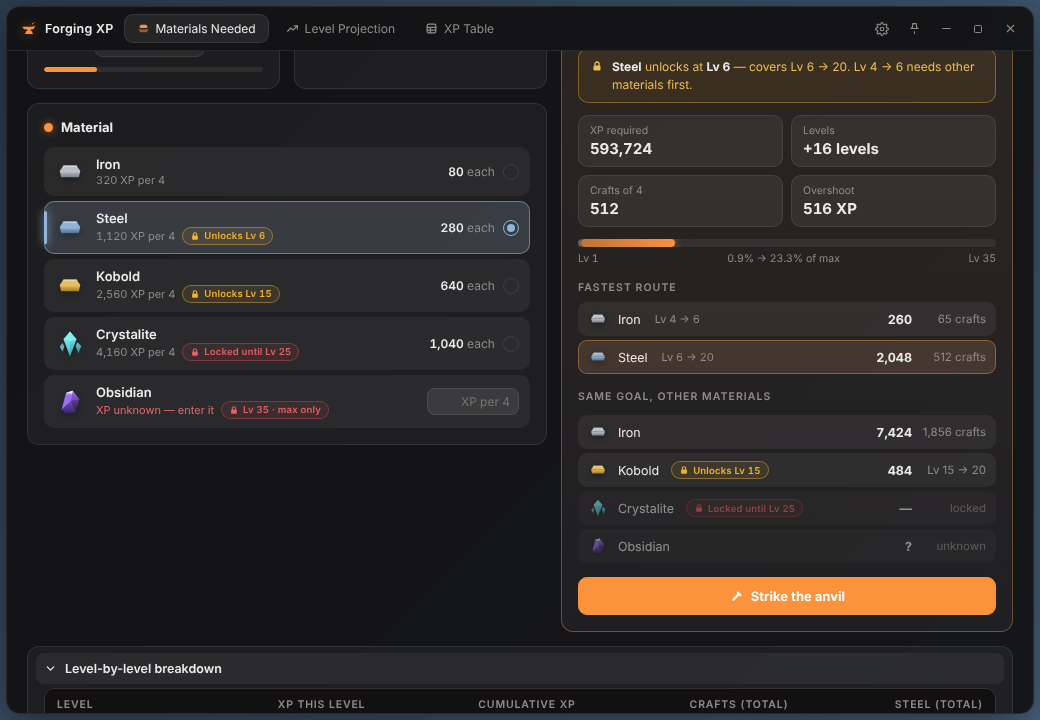
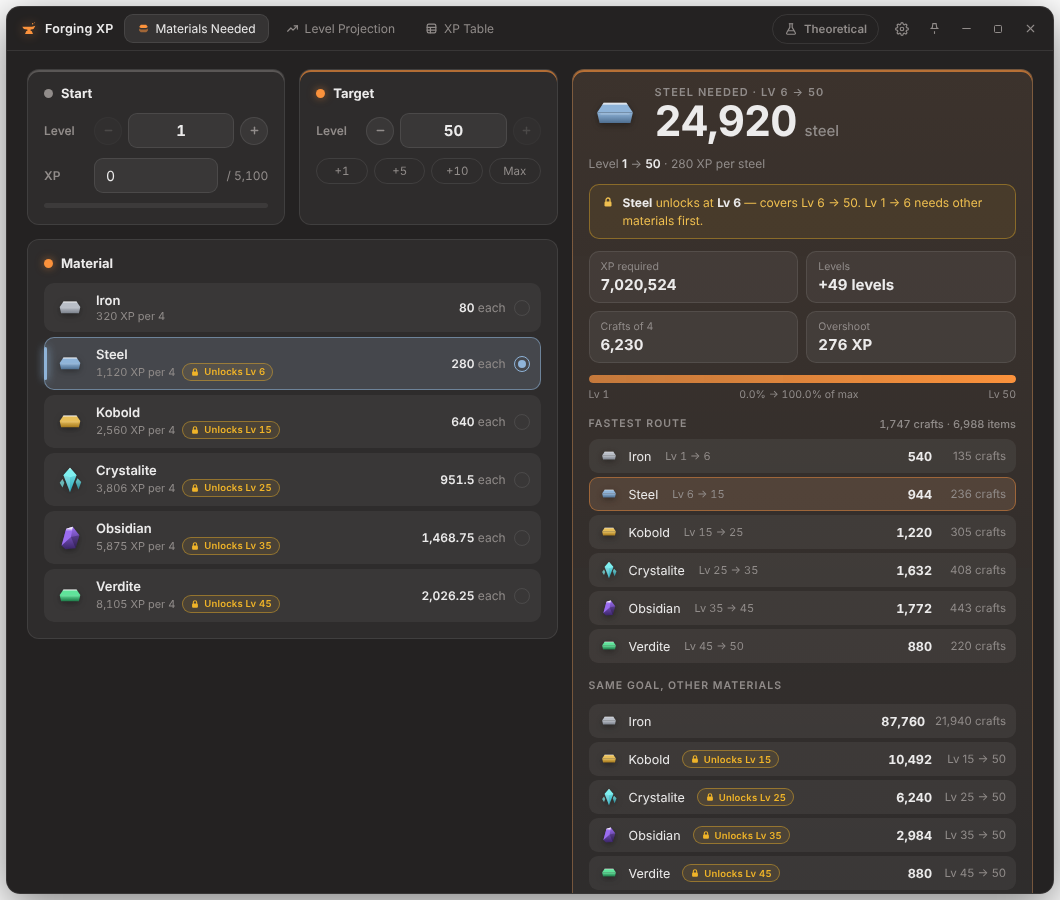
v1.3.0: max level 50, Verdite (Lv 45), Obsidian 5875, Crystalite 3806
Claude-Session: https://claude.ai/code/session_014Nw5Q8vzq2GeLL2u44okpi

diff --git a/desktop/ui/app.js b/desktop/ui/app.js
@@ -9,6 +9,7 @@ const send = (cmd, extra = {}) => { if (HOST) try { window.ipc.postMessage(JSON.
 const $ = s => document.querySelector(s);
 const $$ = s => [...document.querySelectorAll(s)];
 const fmt = n => Math.round(n).toLocaleString("en-US");
+const fmtEach = v => v.toLocaleString("en-US", { maximumFractionDigits: 2 });   // per-item XP (may be fractional)
 
 // ============================================================
 // XP curve: XP(L) = 136L² + 1088L + 3876  (XP to go from level L to L+1)
@@ -16,8 +17,8 @@ const fmt = n => Math.round(n).toLocaleString("en-US");
 // recorded and this formula was fitted to them (it reproduces every measured value exactly).
 // Levels above 25 — and theoretical mode past 35 — are extrapolated from the same formula.
 // ============================================================
-const GAME_CAP = 35;          // real in-game max level
-const THEO_CAP = 500;         // theoretical mode: formula continues past 35
+const GAME_CAP = 50;          // real in-game max level
+const THEO_CAP = 500;         // theoretical mode: formula continues past the real cap
 let MAX_LEVEL = GAME_CAP;
 let THEO = false;             // never persisted: every launch starts with the real cap
 const rawXp = L => 136 * L * L + 1088 * L + 3876;
@@ -41,8 +42,9 @@ const MATS = [
   { id: "iron",       name: "Iron",       lv: 1,  def: 320,  c: "#b9bec7", c2: "#7d838d", shape: "ingot" },
   { id: "steel",      name: "Steel",      lv: 6,  def: 1120, c: "#8fb4d9", c2: "#4f6f91", shape: "ingot" },
   { id: "kobold",     name: "Kobold",     lv: 15, def: 2560, c: "#e8bf5a", c2: "#a67a1e", shape: "ingot" },
-  { id: "crystalite", name: "Crystalite", lv: 25, def: 4160, c: "#7ff0f0", c2: "#2aa5b8", shape: "crystal" },
-  { id: "obsidian",   name: "Obsidian",   lv: 35, def: 0,    c: "#9b6df0", c2: "#3b2569", shape: "shard" },
+  { id: "crystalite", name: "Crystalite", lv: 25, def: 3806, c: "#7ff0f0", c2: "#2aa5b8", shape: "crystal" },
+  { id: "obsidian",   name: "Obsidian",   lv: 35, def: 5875, c: "#9b6df0", c2: "#3b2569", shape: "shard" },
+  { id: "verdite",    name: "Verdite",    lv: 45, def: 8105, c: "#5fe39a", c2: "#1e7a48", shape: "ingot" },
 ];
 const MAT = Object.fromEntries(MATS.map(m => [m.id, m]));
 const per4 = id => +S.per4[id] || 0;
@@ -153,6 +155,7 @@ function loadState() {
   if (typeof raw === "string") try { raw = JSON.parse(raw); } catch { raw = null; }
   S = deepMerge(structuredClone(DEFAULTS), raw || {});
   // newly-discovered default values fill in for still-unknown materials
+  if (+S.per4.crystalite === 4160) S.per4.crystalite = 3806;   // v1.3: Crystalite rebalanced (old default 4160)
   for (const m of MATS) if (!(+S.per4[m.id] > 0) && m.def > 0) S.per4[m.id] = m.def;
 }
 let saveT = null;
@@ -359,7 +362,7 @@ function renderNeedMats() {
       <div class="m-txt"><span class="m-name">${m.name}</span>
         <span class="m-sub">${known ? `${fmt(p)} XP per 4` : "XP unknown — enter it"}${lockBadge(m.id, S.need.lv, S.need.target)}</span></div>
       <div class="m-right">
-        ${known ? `<span class="m-each"><b>${fmt(p / 4)}</b> each</span><span class="radio"></span>`
+        ${known ? `<span class="m-each"><b>${fmtEach(p / 4)}</b> each</span><span class="radio"></span>`
                 : `<input class="set-inline" data-set="${m.id}" placeholder="XP per 4" inputmode="numeric">`}
       </div>
     </div>`;
@@ -417,7 +420,7 @@ function renderNeed() {
   $("#need-unit").textContent = items === 1 ? m.name.toLowerCase() : m.name.toLowerCase();
   animNum($("#need-count"), items ?? 0);
   const over = Math.max(0, route.cur - endT);
-  $("#need-sub").innerHTML = `Level <b>${N.lv}</b>${N.xp ? ` (+${fmt(N.xp)} XP)` : ""} → <b>${N.target}</b> · ${fmt(per4(N.mat) / 4)} XP per ${m.name.toLowerCase()}`;
+  $("#need-sub").innerHTML = `Level <b>${N.lv}</b>${N.xp ? ` (+${fmt(N.xp)} XP)` : ""} → <b>${N.target}</b> · ${fmtEach(per4(N.mat) / 4)} XP per ${m.name.toLowerCase()}`;
   animNum($("#need-st-xp"), xp);
   $("#need-st-lv").textContent = `+${N.target - N.lv} level${N.target - N.lv === 1 ? "" : "s"}`;
   animNum($("#need-st-crafts"), items / 4);
@@ -487,7 +490,7 @@ function renderProjMats() {
     const p = per4(m.id);
     return `<div class="inv ${p > 0 ? "" : "unknown"}" data-id="${m.id}" style="--mc:${m.c};animation-delay:${i * 30}ms">
       ${matIcon(m.id)}
-      <div class="m-txt"><div class="m-name">${m.name}</div><div class="m-sub">${p > 0 ? `${fmt(p / 4)} XP each` : "XP unknown"}<span class="lb" data-lb="${m.id}"></span></div></div>
+      <div class="m-txt"><div class="m-name">${m.name}</div><div class="m-sub">${p > 0 ? `${fmtEach(p / 4)} XP each` : "XP unknown"}<span class="lb" data-lb="${m.id}"></span></div></div>
       <div class="num" data-bind="proj.counts.${m.id}"></div>
       <div class="q"><button class="qchip" data-q="4">+4</button><button class="qchip" data-q="16">+16</button><button class="qchip" data-q="64">+64</button></div>
       <div class="contrib" data-c="${m.id}"></div>
@@ -683,7 +686,7 @@ function renderSettingsPanel() {
   $("#set-mats").innerHTML = MATS.map(m => `<div class="set-mat">${matIcon(m.id, "sm")}<span class="sm-name">${m.name}</span>
     <label class="sm-lv" title="Level this material unlocks at">Lv<input class="set-inline lvin" data-u="${m.id}" value="${unlockOf(m.id)}" inputmode="numeric"></label>
     <input class="set-inline" data-m="${m.id}" value="${per4(m.id) || ""}" placeholder="unknown" inputmode="numeric">
-    <span class="sm-each">${per4(m.id) ? `${fmt(per4(m.id) / 4)} each` : "—"}</span></div>`).join("");
+    <span class="sm-each">${per4(m.id) ? `${fmtEach(per4(m.id) / 4)} each` : "—"}</span></div>`).join("");
   $$("#set-mats .set-inline").forEach(inp => {
     inp.addEventListener("keydown", e => { if (e.key === "Enter") inp.blur(); });
     inp.addEventListener("change", () => {
@@ -735,7 +738,7 @@ function setTheo(on, quiet) {
   refreshAll();
   if (activeTab === "table") renderTable();
   if (!quiet) {
-    toast(THEO ? `Theoretical mode — level cap lifted (up to Lv ${THEO_CAP})` : "Back to the real Lv 35 cap");
+    toast(THEO ? `Theoretical mode — level cap lifted (up to Lv ${THEO_CAP})` : `Back to the real Lv ${GAME_CAP} cap`);
     THEO ? SFX.select() : SFX.close();
   }
 }

diff --git a/mobile/www/app.js b/mobile/www/app.js
@@ -7,6 +7,7 @@ const NATIVE = typeof window.Android !== "undefined";
 const $ = s => document.querySelector(s);
 const $$ = s => [...document.querySelectorAll(s)];
 const fmt = n => Math.round(n).toLocaleString("en-US");
+const fmtEach = v => v.toLocaleString("en-US", { maximumFractionDigits: 2 });   // per-item XP (may be fractional)
 
 // ============================================================
 // XP curve: XP(L) = 136L² + 1088L + 3876  (XP to go from level L to L+1)
@@ -14,8 +15,8 @@ const fmt = n => Math.round(n).toLocaleString("en-US");
 // recorded and this formula was fitted to them (it reproduces every measured value exactly).
 // Levels above 25 — and theoretical mode past 35 — are extrapolated from the same formula.
 // ============================================================
-const GAME_CAP = 35;          // real in-game max level
-const THEO_CAP = 500;         // theoretical mode: formula continues past 35
+const GAME_CAP = 50;          // real in-game max level
+const THEO_CAP = 500;         // theoretical mode: formula continues past the real cap
 let MAX_LEVEL = GAME_CAP;
 let THEO = false;             // never persisted: every launch starts with the real cap
 const rawXp = L => 136 * L * L + 1088 * L + 3876;
@@ -39,8 +40,9 @@ const MATS = [
   { id: "iron",       name: "Iron",       lv: 1,  def: 320,  c: "#b9bec7", c2: "#7d838d", shape: "ingot" },
   { id: "steel",      name: "Steel",      lv: 6,  def: 1120, c: "#8fb4d9", c2: "#4f6f91", shape: "ingot" },
   { id: "kobold",     name: "Kobold",     lv: 15, def: 2560, c: "#e8bf5a", c2: "#a67a1e", shape: "ingot" },
-  { id: "crystalite", name: "Crystalite", lv: 25, def: 4160, c: "#7ff0f0", c2: "#2aa5b8", shape: "crystal" },
-  { id: "obsidian",   name: "Obsidian",   lv: 35, def: 0,    c: "#9b6df0", c2: "#3b2569", shape: "shard" },
+  { id: "crystalite", name: "Crystalite", lv: 25, def: 3806, c: "#7ff0f0", c2: "#2aa5b8", shape: "crystal" },
+  { id: "obsidian",   name: "Obsidian",   lv: 35, def: 5875, c: "#9b6df0", c2: "#3b2569", shape: "shard" },
+  { id: "verdite",    name: "Verdite",    lv: 45, def: 8105, c: "#5fe39a", c2: "#1e7a48", shape: "ingot" },
 ];
 const MAT = Object.fromEntries(MATS.map(m => [m.id, m]));
 const per4 = id => +S.per4[id] || 0;
@@ -141,6 +143,7 @@ function loadState() {
   try { raw = NATIVE ? window.Android.load() : localStorage.getItem("fx_settings"); } catch {}
   try { raw = raw ? JSON.parse(raw) : null; } catch { raw = null; }
   S = deepMerge(structuredClone(DEFAULTS), raw || {});
+  if (+S.per4.crystalite === 4160) S.per4.crystalite = 3806;   // v1.3: Crystalite rebalanced (old default 4160)
   for (const m of MATS) if (!(+S.per4[m.id] > 0) && m.def > 0) S.per4[m.id] = m.def;
 }
 let saveT = null;
@@ -428,7 +431,7 @@ function renderNeedMats() {
     return `<div class="mat ${known ? "" : "unknown"} ${S.need.mat === m.id ? "selected" : ""}" data-id="${m.id}" style="--mc:${m.c}">
       <div class="m-top">${matIcon(m.id)}<span class="m-name">${m.name}</span></div>
       <span class="check">${ICON.check}</span>
-      ${known ? `<span class="m-each"><b>${fmt(p / 4)}</b> XP each · ${fmt(p)}/4</span>`
+      ${known ? `<span class="m-each"><b>${fmtEach(p / 4)}</b> XP each · ${fmt(p)}/4</span>`
               : `<input class="set-inline" data-set="${m.id}" placeholder="XP per 4" inputmode="numeric" enterkeyhint="done">`}
       <div class="m-foot">${lockBadge(m.id, S.need.lv, S.need.target)}</div>
     </div>`;
@@ -482,7 +485,7 @@ function renderNeed() {
   $("#need-res-label").textContent = partial && u < N.target ? `${m.name} · Lv ${u} → ${N.target}` : `${m.name} needed`;
   $("#need-unit").textContent = m.name.toLowerCase();
   animNum($("#need-count"), items);
-  $("#need-sub").innerHTML = `Level <b>${N.lv}</b>${N.xp ? ` (+${fmt(N.xp)} XP)` : ""} → <b>${N.target}</b> · ${fmt(per4(N.mat) / 4)} XP per ${m.name.toLowerCase()}`;
+  $("#need-sub").innerHTML = `Level <b>${N.lv}</b>${N.xp ? ` (+${fmt(N.xp)} XP)` : ""} → <b>${N.target}</b> · ${fmtEach(per4(N.mat) / 4)} XP per ${m.name.toLowerCase()}`;
   animNum($("#need-st-xp"), xp);
   $("#need-st-lv").textContent = `+${N.target - N.lv} level${N.target - N.lv === 1 ? "" : "s"}`;
   animNum($("#need-st-crafts"), items / 4);
@@ -548,7 +551,7 @@ function renderProjMats() {
     const p = per4(m.id);
     return `<div class="inv ${p > 0 ? "" : "unknown"}" data-id="${m.id}" style="--mc:${m.c}">
       <div class="i-top">${matIcon(m.id)}
-        <div class="m-txt"><div class="m-name">${m.name}<span class="lb" data-lb="${m.id}"></span></div><div class="m-sub">${p > 0 ? `${fmt(p / 4)} XP each` : "XP unknown — set in Settings"}</div></div>
+        <div class="m-txt"><div class="m-name">${m.name}<span class="lb" data-lb="${m.id}"></span></div><div class="m-sub">${p > 0 ? `${fmtEach(p / 4)} XP each` : "XP unknown — set in Settings"}</div></div>
         <div class="contrib" data-c="${m.id}"></div>
       </div>
       <div class="i-ctl">
@@ -859,7 +862,7 @@ function setTheo(on, quiet) {
   refreshAll();
   if (activeTab === "table") renderTable();
   if (!quiet) {
-    toast(THEO ? `Theoretical mode — level cap lifted (up to Lv ${THEO_CAP})` : "Back to the real Lv 35 cap");
+    toast(THEO ? `Theoretical mode — level cap lifted (up to Lv ${THEO_CAP})` : `Back to the real Lv ${GAME_CAP} cap`);
     THEO ? SFX.select() : SFX.close();
     buzz(14);
   }

diff --git a/desktop/ui/index.html b/desktop/ui/index.html
@@ -34,7 +34,7 @@
       </button>
     </nav>
     <div class="tb-right">
-      <button id="btn-theo" class="theo-toggle" aria-pressed="false" title="Theoretical mode: lift the Lv 35 cap so the XP formula keeps going. Resets every launch."><svg viewBox="0 0 24 24" width="14" height="14" fill="none" stroke="currentColor" stroke-width="2" stroke-linecap="round" stroke-linejoin="round"><path d="M9 3h6"/><path d="M10 3v6.2L4.6 18.4A1.7 1.7 0 0 0 6.1 21h11.8a1.7 1.7 0 0 0 1.5-2.6L14 9.2V3"/><path d="M7.5 15h9"/></svg><span class="tt-label">Theoretical</span></button>
+      <button id="btn-theo" class="theo-toggle" aria-pressed="false" title="Theoretical mode: lift the Lv 50 cap so the XP formula keeps going. Resets every launch."><svg viewBox="0 0 24 24" width="14" height="14" fill="none" stroke="currentColor" stroke-width="2" stroke-linecap="round" stroke-linejoin="round"><path d="M9 3h6"/><path d="M10 3v6.2L4.6 18.4A1.7 1.7 0 0 0 6.1 21h11.8a1.7 1.7 0 0 0 1.5-2.6L14 9.2V3"/><path d="M7.5 15h9"/></svg><span class="tt-label">Theoretical</span></button>
       <button id="btn-settings" class="tb-btn" title="Settings (Ctrl+,)">
         <svg viewBox="0 0 24 24" width="14" height="14" fill="none" stroke="currentColor" stroke-width="2"><circle cx="12" cy="12" r="3"/><path d="M19.4 15a1.7 1.7 0 0 0 .34 1.87l.06.06a2 2 0 1 1-2.83 2.83l-.06-.06a1.7 1.7 0 0 0-1.87-.34 1.7 1.7 0 0 0-1 1.55V21a2 2 0 1 1-4 0v-.09a1.7 1.7 0 0 0-1-1.55 1.7 1.7 0 0 0-1.87.34l-.06.06a2 2 0 1 1-2.83-2.83l.06-.06a1.7 1.7 0 0 0 .34-1.87 1.7 1.7 0 0 0-1.55-1H3a2 2 0 1 1 0-4h.09a1.7 1.7 0 0 0 1.55-1 1.7 1.7 0 0 0-.34-1.87l-.06-.06a2 2 0 1 1 2.83-2.83l.06.06a1.7 1.7 0 0 0 1.87.34h.01a1.7 1.7 0 0 0 1-1.55V3a2 2 0 1 1 4 0v.09a1.7 1.7 0 0 0 1 1.55 1.7 1.7 0 0 0 1.87-.34l.06-.06a2 2 0 1 1 2.83 2.83l-.06.06a1.7 1.7 0 0 0-.34 1.87v.01a1.7 1.7 0 0 0 1.55 1H21a2 2 0 1 1 0 4h-.09a1.7 1.7 0 0 0-1.55 1z"/></svg>
       </button>
@@ -95,7 +95,7 @@
               <div class="stat"><span>Crafts of 4</span><b id="need-st-crafts">0</b></div>
               <div class="stat"><span>Overshoot</span><b id="need-st-over">0</b></div>
             </div>
-            <div class="journey" id="need-journey"><div class="j-track"><i class="j-done"></i><i class="j-go"></i></div><div class="j-labels"><span>1</span><span>35</span></div></div>
+            <div class="journey" id="need-journey"><div class="j-track"><i class="j-done"></i><i class="j-go"></i></div><div class="j-labels"><span>1</span><span>50</span></div></div>
             <div class="route hidden" id="need-route">
               <h4 class="sub-h">Fastest route</h4>
               <div class="alt-list route-list"></div>
@@ -243,7 +243,7 @@
       </section>
 
       <section class="about">
-        <p>XP formula: XP(L) = 136L² + 1088L + 3876 (XP to go from level L to L+1). It was derived by measuring the max XP of every blacksmithing level from 1 to 25 in-game and fitting a formula to those values; it matches all of them exactly. Levels above 25 (and theoretical mode) are extrapolated. Max level 35 (2,640,304 total XP).</p>
+        <p>XP formula: XP(L) = 136L² + 1088L + 3876 (XP to go from level L to L+1). It was derived by measuring the max XP of every blacksmithing level from 1 to 25 in-game and fitting a formula to those values; it matches all of them exactly. Levels above 25 (and theoretical mode) are extrapolated. Max level 50 (7,020,524 total XP).</p>
         <p>Shortcuts: Ctrl+1/2/3 tabs · Ctrl+, settings · Enter strike · scroll over a level to change it.</p>
       </section>
     </div>

diff --git a/mobile/www/index.html b/mobile/www/index.html
@@ -19,7 +19,7 @@
       <span class="tb-title">Forging XP</span>
       <span class="tb-sub" id="tb-sub">Materials Needed</span>
     </div>
-    <button id="btn-theo" class="theo-toggle" aria-pressed="false" title="Theoretical mode: lift the Lv 35 cap so the XP formula keeps going. Resets every launch."><svg viewBox="0 0 24 24" width="14" height="14" fill="none" stroke="currentColor" stroke-width="2" stroke-linecap="round" stroke-linejoin="round"><path d="M9 3h6"/><path d="M10 3v6.2L4.6 18.4A1.7 1.7 0 0 0 6.1 21h11.8a1.7 1.7 0 0 0 1.5-2.6L14 9.2V3"/><path d="M7.5 15h9"/></svg><span class="tt-label">Theoretical</span></button>
+    <button id="btn-theo" class="theo-toggle" aria-pressed="false" title="Theoretical mode: lift the Lv 50 cap so the XP formula keeps going. Resets every launch."><svg viewBox="0 0 24 24" width="14" height="14" fill="none" stroke="currentColor" stroke-width="2" stroke-linecap="round" stroke-linejoin="round"><path d="M9 3h6"/><path d="M10 3v6.2L4.6 18.4A1.7 1.7 0 0 0 6.1 21h11.8a1.7 1.7 0 0 0 1.5-2.6L14 9.2V3"/><path d="M7.5 15h9"/></svg><span class="tt-label">Theoretical</span></button>
   </header>
 
   <!-- ======= Pager ======= -->
@@ -200,7 +200,7 @@
           <div class="card">
             <button id="btn-reset-all" class="btn">Reset all settings</button>
             <div class="about">
-              <p>XP formula: XP(L) = 136L² + 1088L + 3876 (XP to go from level L to L+1). It was derived by measuring the max XP of every blacksmithing level from 1 to 25 in-game and fitting a formula to those values; it matches all of them exactly. Levels above 25 (and theoretical mode) are extrapolated. Max level 35 (2,640,304 total XP). Crafts use 4 items at a time.</p>
+              <p>XP formula: XP(L) = 136L² + 1088L + 3876 (XP to go from level L to L+1). It was derived by measuring the max XP of every blacksmithing level from 1 to 25 in-game and fitting a formula to those values; it matches all of them exactly. Levels above 25 (and theoretical mode) are extrapolated. Max level 50 (7,020,524 total XP). Crafts use 4 items at a time.</p>
               <p>Swipe left/right to switch tabs. Sliders only move when you drag them sideways, so scrolling never changes a value. Hold − / + to repeat.</p>
             </div>
           </div>

diff --git a/README.md b/README.md
@@ -44,15 +44,16 @@ Without them the release APK is signed with a temporary key.
 ## Features
 
 - **Materials Needed**: pick a start level (plus current XP) and a target level and see exactly how
-  many items and crafts you need, with overshoot, progress across levels 1–35, and the same goal in
+  many items and crafts you need, with overshoot, progress across levels 1–50, and the same goal in
   every other material.
 - **Fastest route**: automatically uses the best material unlocked at each stage
-  (Iron → Steel → Kobold → Crystalite).
+  (Iron → Steel → Kobold → Crystalite → Obsidian → Verdite).
 - **Level Projection**: enter what you have (one material or several) and see the level you'll
   reach, progress into it, each material's share of the XP, and what you need for the next level.
   Materials that aren't unlocked yet are only used once you reach their level.
 - **XP Table**: the full curve. Click or tap a row to set your target, Shift-click or hold to set
   your start.
+- **Theoretical mode**: a toggle in the top bar that lifts the Lv 50 cap so the formula keeps going (up to Lv 500). It's off every time the app starts.
 - **Crafting-accurate rounding**: crafts consume 4 items at a time, so every count is a whole
   number of crafts (a multiple of 4), and leftover items are flagged as spare.
 - Synthesized sound effects, animations, dark/light themes, accent colours, brightness, and
@@ -66,12 +67,12 @@ Without them the release APK is signed with a temporary key.
 
 ```
 XP to go from level L to L+1  =  XP(L) = 136·L² + 1088·L + 3876
-Max level 35  ·  2,640,304 total XP from level 1
+Max level 50  ·  7,020,524 total XP from level 1
 ```
 
 **Where the formula comes from:** it was derived from in-game measurements. The max XP of every
 blacksmithing level from 1 to 25 was recorded, and this formula was fitted to those values. It
-reproduces every measured value exactly. Levels 26–35, and Theoretical mode beyond 35, are
+reproduces every measured value exactly. Levels 26–50, and Theoretical mode beyond 50, are
 extrapolated from the same formula. If the game ever disagrees, the in-game value is right.
 
 | Level | XP to next | Total XP from Lv 1 |
@@ -83,6 +84,9 @@ extrapolated from the same formula. If the game ever disagrees, the in-game valu
 | 20 → 21 | 80,036 | 696,320 |
 | 25 → 26 | 116,076 | 1,201,900 |
 | 34 → 35 | 198,084 | 2,640,304 |
+| 40 → 41 | 264,996 | 4,058,240 |
+| 45 → 46 | 328,236 | 5,570,220 |
+| 49 → 50 | 383,724 | 7,020,524 |
 
 The full table is in the app's **XP Table** tab.
 
@@ -91,8 +95,9 @@ The full table is in the app's **XP Table** tab.
 | Iron | 320 | 80 | Lv 1 |
 | Steel | 1,120 | 280 | Lv 6 |
 | Kobold | 2,560 | 640 | Lv 15 |
-| Crystalite | 4,160 | 1,040 | Lv 25 |
-| Obsidian | unknown | — | Lv 35 (max) |
+| Crystalite | 3,806 | 951.5 | Lv 25 |
+| Obsidian | 5,875 | 1,468.75 | Lv 35 |
+| Verdite | 8,105 | 2,026.25 | Lv 45 |
 
 All values (XP and unlock levels) can be edited in **Settings** if the game changes them.
 

diff --git a/CHANGELOG.md b/CHANGELOG.md
@@ -4,6 +4,16 @@ All notable changes to the Forging XP Calculator, split by platform.
 Adding a new version section at the top and pushing it publishes that release automatically.
 Downloads for every version are on the [Releases](../../releases) page.
 
+## [1.3.0] — 2026-11-01
+
+### 🖥 Desktop (Windows) and 📱 Mobile (Android)
+- **Max level raised to 50** (was 35). Level 1 → 50 is 7,020,524 XP in total. The level boxes, XP Table, progress bar and Max shortcut all follow the new cap. Theoretical mode now lifts the Lv 50 cap.
+- **New material: Verdite.** Unlocks at Lv 45, 8,105 XP per craft of 4 (2,026.25 each).
+- **Obsidian has a value now:** 5,875 XP per craft of 4 (1,468.75 each). Unlocks at Lv 35 and is now a normal levelling material (it used to be max-level only).
+- **Crystalite rebalanced:** 4,160 → 3,806 XP per craft of 4 (951.5 each). If you still had the old 4,160 saved, it updates automatically. Values you entered yourself are kept.
+- The fastest route now continues Crystalite → **Obsidian (Lv 35)** → **Verdite (Lv 45)**.
+- Per-item XP shows decimals where needed (e.g. 951.5 each). Counts still round up to whole crafts of 4.
+
 ## [1.2.2] — 2026-10-29
 
 ### 🖥 Desktop (Windows)
